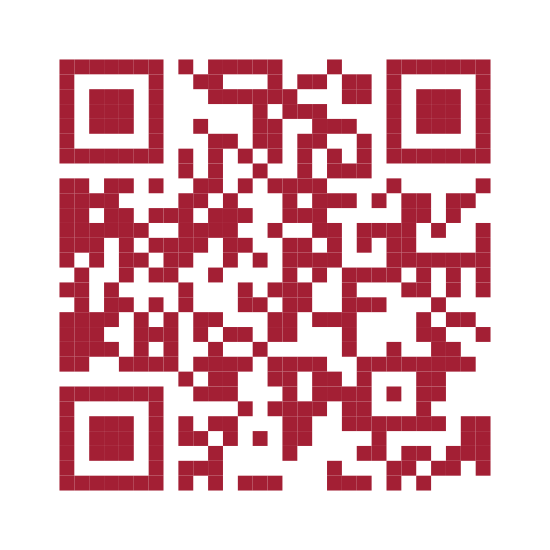
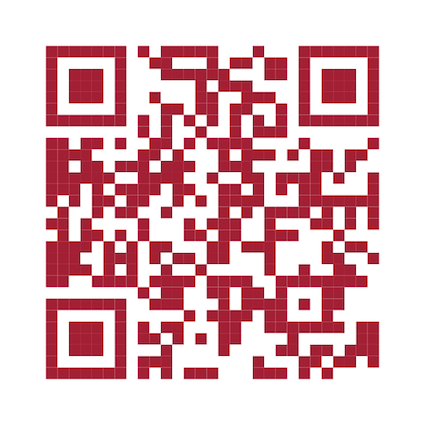
Add github handles and text for slide url

diff --git a/markdown/3-conc.md b/markdown/3-conc.md
@@ -32,12 +32,8 @@
 	- "giturl" setting
 
 ---
-
 # Questions?
-
-.fl[
+.center[
+![github cat](../assets/puppeteer.png)mitodl/git-based-courses-slides
 ![qr](../assets/qrcode.png)
-]
-.fr[
-![doof](../assets/doof.png)
 ]

diff --git a/markdown/0-intro.md b/markdown/0-intro.md
@@ -5,7 +5,7 @@ class: title, center, middle
 ![logo](../assets/mitx_logo.png)
 
 ### Carson Gee and Peter Pinch
-
+### cgee@mit.edu  &nbsp;&  pdpinch@mit.edu
 ---
 
 # Peter Pinch
